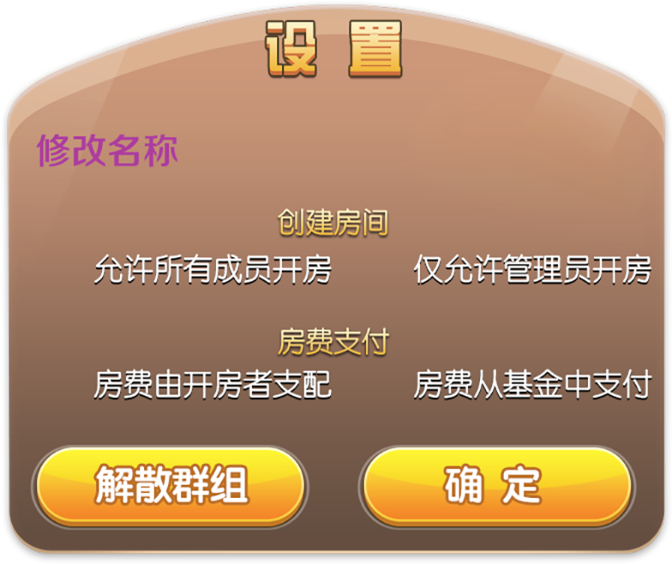
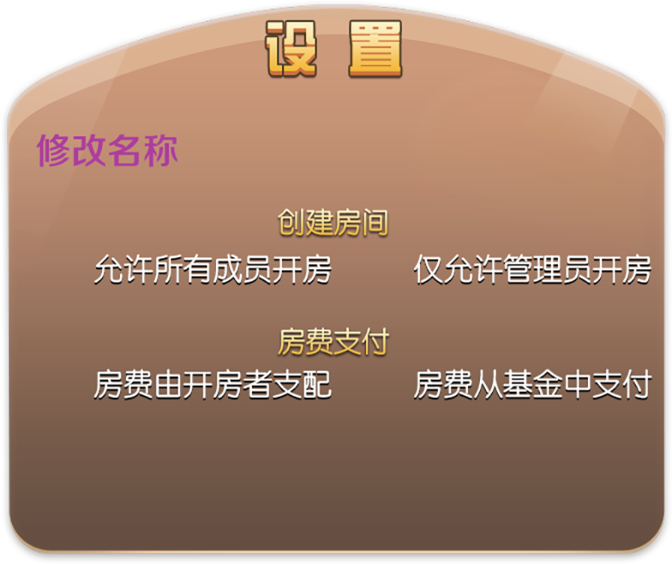
设置 基金明细

Changed region(s): [[0.5312, 0.7837, 0.9688, 0.9645], [0.0312, 0.7837, 0.4688, 0.9645]]

diff --git a/src/activities/sqGame/js/club.js b/src/activities/sqGame/js/club.js
@@ -5,7 +5,9 @@
 
     var interval = null, 
         msgPager = {limit: Util.pager.limit, page: Util.pager.page},
-        roomPager = {limit: Util.pager.limit, page: Util.pager.page};
+        memberPager = {limit: Util.pager.limit, page: Util.pager.page},
+        roomPager = {limit: Util.pager.limit, page: Util.pager.page},
+        integalPager = {limit: Util.pager.limit, page: Util.pager.page};
 
     var groups = [],
         currentGroup = '',
@@ -212,11 +214,20 @@
             })
         });
     });
-    // 成员滚动加载更多
-    $('.member-list').scroll(function(e) {
-        // console.log('scroll');
-        handleScroll(e);
+    // 解散设置，退出群组
+    $('.popup-dismiss').on('click', '.btn-quit', function() {
+        quitGroup();
     });
+    // 成员滚动加载更多
+    // $('.member-list').scroll(function(e) {
+    //     // console.log('scroll');
+    //     handleScroll(e);
+    // });
+    // 成员点击加载更多
+    $('.popup-members').on('click', '.loadmore', function(e) {
+        memberPager.page += 1;
+        getGroupUserList();
+    })
 
     // 充值基金
     $('.popup-found').on('click', '.btn-found-recharge', function(e) {
@@ -237,8 +248,16 @@
     });
     // 基金账单明细
     $('.popup-found').on('click', '.btn-found-detail', function(e) {
+        if($('.popup-found-detail .list-main .row').length <= 0) {
+            getIntegalDetail();
+        }
         $('.popup-found-detail').show();
     })
+    // 基金账单明细加载更多
+    $('.popup-found-detail').on('click', '.loadmore', function(){
+        integalPager.page += 1;
+        getIntegalDetail();
+    });
     function initPage() {
         getListOfUser(function() {
             // 获取房间列表
@@ -304,6 +323,7 @@
     // }
     // 获取消息
     function getListOfStateAndGroup() {
+        msgPager.page = msgPager.page < 1 ? 1: msgPager.page;
         Util.Ajax({
             url: Util.openAPI + "/app/groupUser/getListOfStateAndGroup",
             type: "get",
@@ -355,7 +375,14 @@
                             }, 2000);
                         }
                     }
+                } else {
+                    msgPager.page -= 1;
+                    Util.toast(data.msg);
                 }
+            },
+            cbErr: function() {
+                msgPager.page -= 1;
+                Util.toast('消息查询失败，请稍后再试')
             }
         });
     }
@@ -615,6 +642,31 @@
             }
         });
     }
+    // 退出群组
+    function quitGroup() {
+        Util.Ajax({
+            url: Util.openAPI + "/app/groupUser/cancel",
+            type: "post",
+            dataType: "json",
+            data: {
+                id: groups[currentGroup].id
+            },
+            cbOk: function(data, textStatus, jqXHR) {
+            // console.log(data);
+            if (data.code === 0) {
+                Util.toast("退出成功！");
+                setTimeout(function() {
+                    window.location.reload();
+                }, 1000);
+            } else {
+                Util.toast(data.msg);
+            }
+            },
+            cbErr: function(e, xhr, type) {
+                Util.toast("退出失败，请稍后再试！");
+            }
+        });
+    }
     // 充值基金
     function payIntegal(num) {
         Util.Ajax({
@@ -642,8 +694,49 @@
             }
         });
     }
+    // 基金，账单明细
+    function getIntegalDetail() {
+        var $detail = $('.popup-found-detail');
+        integalPager.page = integalPager.page < 1 ? 1: integalPager.page
+        Util.Ajax({
+            url: Util.openAPI + "/app/integalDetail/getListOfGroup",
+            type: "get",
+            dataType: "json",
+            data: {
+                groupId: groups[currentGroup].id,
+                limit: integalPager.limit,
+                page: integalPager.page
+            },
+            cbOk: function(data, textStatus, jqXHR) {
+            // console.log(data);
+            if (data.code === 0) {
+                var _rows = data.data.row, _temp = '';
+                for(var i = 0; i < _rows.length; i ++) {
+                    _temp += '<div class="row tr"><div>' + _rows[i].type +'</div><div>'+ _rows[i].count +'</div><div>'+ _rows[i].nickName +'</div><div>' + _rows[i].createTime + '</div></div>';
+                }
+                integalPager.page === 1  && $('.room-list').html('');
+                $detail.find('.list-main').append(_temp);
+                if (integalPager.limit * integalPager.page >= data.data.total) {
+                    $detail.find('.nomore').show();
+                    $detail.find('.loadmore').hide();
+                } else {
+                    $detail.find('.nomore').hide();
+                    $detail.find('.loadmore').show();
+                }
+            } else {
+                Util.toast(data.msg);
+                integalPager.page -= 1;
+            }
+            },
+            cbErr: function(e, xhr, type) {
+                integalPager.page -= 1;
+                Util.toast("查询明细失败！");
+            }
+        });
+    }
     // 获取房间列表
     function getRoomListOfGroup() {
+        roomPager.page = roomPager.page < 1 ? 1 : roomPager.page;
         Util.Ajax({
             url: Util.openAPI + "/app/room/getListOfGroup",
             type: "get",
@@ -664,7 +757,7 @@
                     _temp += '<div class="room">'
                     + '<div class="top">'
                     + '<div class="info-avator-wrapper">'
-                    + '<img src="'+  _data.rows[i].gameImg +'" alt="" id="creator_img">'
+                    + '<img src="'+  _data.rows[i].userImg +'" alt="" id="creator_img">'
                     + '</div>'
                     + '<div class="room-name">'+ (_data.rows[i].gameName || '')  +'/'+ _data.rows[i].type+'(房号:' + _data.rows[i].roomNumber + '）</div>'
                         + '<div class="room-count">'+ _data.rows[i].joinUserCount+'/'+ _data.rows[i].people+'</div>'
@@ -692,10 +785,12 @@
                 }
             } else {
                 Util.toast("获取房间列表失败");
+                roomPager.page -= 1;
             }
             },
             cbErr: function(e, xhr, type) {
-            Util.toast("获取房间列表失败");
+                roomPager.page -= 1;
+                Util.toast("获取房间列表失败");
             }
         });
     }
@@ -736,16 +831,27 @@
     // 解散
     function eventDismiss() {
         console.log(groups[currentGroup]);
+        console.log(baseInfo)
         var $dismiss = $('.popup-dismiss'),
             group = groups[currentGroup];
         $dismiss.find('#input_club_name').val(group.name);
         $("input[name='create_state'][value='"+group.createState+"']").prop("checked",true);
         $("input[name='pay_state'][value='"+group.payState+"']").prop("checked",true);
+        // 如果是创建人
+        if(baseInfo.id === group.createUserId) {
+            $dismiss.addClass('creator')
+            $dismiss.find('input').removeAttr("disabled")
+        } else {
+            $dismiss.removeClass('creator')
+            $dismiss.find('input').attr("disabled","disabled")
+            
+        }
+
         $dismiss.show();
     }
     // 成员
     function eventMember() {
-        getGroupUserList(currentGroup);
+        getGroupUserList();
         $('.popup-members').show();
     }
 
@@ -811,30 +917,47 @@
 
     
     function getGroupUserList() {
+        memberPager.page = memberPager.page < 1 ? 1: memberPager.page
+        var $pmember = $('.popup-members');
         if(GETTING_MEMBERS) {
             return;
         }
         GETTING_MEMBERS = true;
-        $('.list-loading').show();
         Util.Ajax({
             url: Util.openAPI + "/app/groupUser/getGroupUserList",
             type: "get",
-            data: {},
+            data: {
+                limit: memberPager.limit,
+                page: memberPager.page
+            },
             dataType: "json",
             cbOk: function(data, textStatus, jqXHR) {
               // console.log(data);
               if (data.code === 0) {
                 console.log(data)
+                var _temp = '';
+                if(memberPager.page === 1) {
+                    $pmember.find('.list-scroll').html('');
+                    }
+                    $pmember.find('.list-scroll').append(_temp);
+                    if (memberPager.limit * memberPager.page >= data.data.total) {
+                        $pmember.find('.nomore').show();
+                        $pmember.find('.loadmore').hide();
+                    } else {
+                        $pmember.find('.nomore').hide();
+                        $pmember.find('.loadmore').show();
+                    }
               } else {
+                memberPager.page -= 1;
                 Util.toast(data.msg);
               }
               GETTING_MEMBERS = false;
-            $('.list-loading').hide();
+              
             },
             cbErr: function(e, xhr, type) {
               Util.toast("获取成员数据失败！");
               GETTING_MEMBERS = false;
-              $('.list-loading').hide();
+              memberPager.page -= 1;
             }
         });
     }

diff --git a/src/activities/sqGame/html/club.html b/src/activities/sqGame/html/club.html
@@ -211,7 +211,7 @@
             </div>
             <div class="btn-dismiss"></div>
             <div class="btn-confirm"></div>
-            <!-- <div class="btn-confirm"></div> -->
+            <div class="btn-quit"></div>
         </div>
     </div>
     <!-- 群成员 -->
@@ -242,7 +242,9 @@
                         <div class="btn-remove"></div>
                     </div>
                 </div>
-                <div class="list-loading"><svg class="spinner show" viewBox="0 0 44 44"><circle class="path" fill="none" stroke-width="4" stroke-linecap="round" cx="22" cy="22" r="20"></circle> </svg></div>
+                <div class="loadmore">点击加载更多</div>
+                <div class="nomore">已经到底了</div>
+                <!-- <div class="list-loading"><svg class="spinner show" viewBox="0 0 44 44"><circle class="path" fill="none" stroke-width="4" stroke-linecap="round" cx="22" cy="22" r="20"></circle> </svg></div> -->
             </div>
         </div>
     </div>
@@ -279,15 +281,17 @@
                     <div>事件</div><div>数额</div><div>关联人员</div><div>时间</div>
                 </div>
                 <div class="list-scroll">
-                    <div class="row tr"><div>充值</div><div>1</div><div>ohayooo</div><div>5/26  17:4</div></div>
-                    <div class="row tr"><div>充值</div><div>1</div><div>ohayooo</div><div>5/26  17:4</div></div>
-                    <div class="row tr"><div>充值</div><div>1</div><div>ohayooo</div><div>5/26  17:4</div></div>
-                    <div class="row tr"><div>充值</div><div>1</div><div>ohayooo</div><div>5/26  17:4</div></div>
-                    <div class="row tr"><div>充值</div><div>1</div><div>ohayooo</div><div>5/26  17:4</div></div>
-                    <div class="row tr"><div>充值</div><div>1</div><div>ohayooo</div><div>5/26  17:4</div></div>
-                    <div class="row tr"><div>充值</div><div>1</div><div>ohayooo</div><div>5/26  17:4</div></div>
-                    <div class="row tr"><div>充值</div><div>1</div><div>ohayooo</div><div>5/26  17:4</div></div>
-                    <div class="row tr"><div>充值</div><div>1</div><div>ohayooo</div><div>5/26  17:4</div></div>
+                    <div class="list-main">
+                        <!-- <div class="row tr"><div>充值</div><div>1</div><div>ohayooo</div><div>5/26  17:4</div></div>
+                        <div class="row tr"><div>充值</div><div>1</div><div>ohayooo</div><div>5/26  17:4</div></div>
+                        <div class="row tr"><div>充值</div><div>1</div><div>ohayooo</div><div>5/26  17:4</div></div>
+                        <div class="row tr"><div>充值</div><div>1</div><div>ohayooo</div><div>5/26  17:4</div></div>
+                        <div class="row tr"><div>充值</div><div>1</div><div>ohayooo</div><div>5/26  17:4</div></div>
+                        <div class="row tr"><div>充值</div><div>1</div><div>ohayooo</div><div>5/26  17:4</div></div>
+                        <div class="row tr"><div>充值</div><div>1</div><div>ohayooo</div><div>5/26  17:4</div></div>
+                        <div class="row tr"><div>充值</div><div>1</div><div>ohayooo</div><div>5/26  17:4</div></div>
+                        <div class="row tr"><div>充值</div><div>1</div><div>ohayooo</div><div>5/26  17:4</div></div> -->
+                    </div>
                     <div class="loadmore">点击加载更多</div>
                     <div class="nomore">已经到底了</div>
                 </div>

diff --git a/src/activities/sqGame/sass/club.scss b/src/activities/sqGame/sass/club.scss
@@ -468,6 +468,14 @@
 }
 // 解散
 .popup-dismiss {
+    &.creator {
+        .btn-dismiss, .btn-confirm, .btn-dismiss-save {
+            display: block;
+        }
+        .btn-quit {
+            display: none;
+        }
+    }
     .popup-content {
         background: url("../images/club/bg_dismiss.png") no-repeat center;
         background-size: contain;
@@ -516,6 +524,7 @@
         
     }
     .btn-dismiss-save {
+        display: none;
         background: url("../images/club/btn_dismiss_save.png") no-repeat center;
         background-size: contain;
         width: pxToRem(178px);
@@ -526,17 +535,30 @@
         right: pxToRem(16px);
     }
     .btn-dismiss {
+        display: none;
         width: pxToRem(280px);
         height: pxToRem(86px);
         
         position: absolute;
         bottom: pxToRem(34px);
         left: pxToRem(34px); 
+        background: url("../images/club/btn_bg_dismiss.png") no-repeat center;
+        background-size: contain;
     }
     .btn-confirm {
         @extend .btn-dismiss;
         left: unset;
         right: pxToRem(34px);
+        background: url("../images/user/btn_submit.png") no-repeat center;
+        background-size: contain;
+    }
+    .btn-quit {
+        @extend .btn-dismiss;
+        display: block;
+        left: 50%;
+        margin-left: pxToRem(-140px);
+        background: url("../images/club/btn_quit.png") no-repeat center;
+        background-size: contain;
     }
 }
 // 后面多个弹窗公用部分
